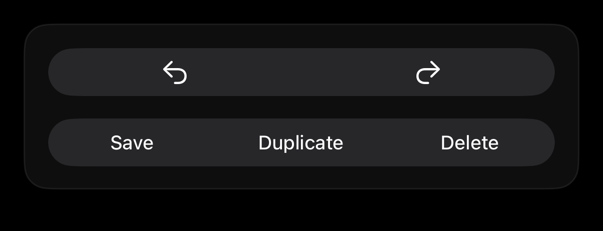
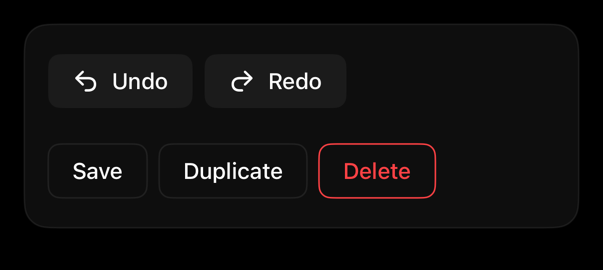
Lay the button group out as a styled HStack
RegistryButtonGroupStyle 0.3.0 renders the ControlGroup's content in an
HStack on the theme's compact spacing with the registry button style, as
one accessibility container, because ControlGroup(configuration) draws
the system capsule and ignores the style, the variant, and the destructive
role. Recapture the item, update the Showcase copy and the generated
outputs, and point the contract test at the new seam. Pin the workflow
actions to the versions Dependabot proposed, wait for the catalog list's
first row before the UI suite scrolls to an item, and record the owner's
decisions on iOS 26, the old commits, and dependency bumps.

By specifier.

diff --git a/Examples/Showcase/SwiftUIRegistryShowcaseUITests/SwiftUIRegistryShowcaseUITests.swift b/Examples/Showcase/SwiftUIRegistryShowcaseUITests/SwiftUIRegistryShowcaseUITests.swift
@@ -33,13 +33,20 @@ final class SwiftUIRegistryShowcaseUITests: XCTestCase {
         let tabButton = app.tabBars.buttons[tab]
         XCTAssertTrue(tabButton.waitForExistence(timeout: 5), "The \(tab) tab must exist.")
         tabButton.tap()
+        // On a fresh launch the list can still be rendering; swiping before its first row
+        // exists scrolls past the target and the lookup fails (seen twice on 2026-09-05 and
+        // 2026-09-06 under machine load).
+        let firstRow = app.descendants(matching: .any)
+            .matching(NSPredicate(format: "identifier BEGINSWITH %@", "catalog.item."))
+            .firstMatch
+        XCTAssertTrue(firstRow.waitForExistence(timeout: 5), "The \(tab) list must render before it is searched.")
         let row = app.descendants(matching: .any)
             .matching(identifier: "catalog.item.\(name)")
             .firstMatch
         for _ in 0..<10 where !row.exists {
             app.swipeUp()
         }
-        XCTAssertTrue(row.waitForExistence(timeout: 3), "The \(name) row must be listed under \(tab).")
+        XCTAssertTrue(row.waitForExistence(timeout: 5), "The \(name) row must be listed under \(tab).")
         row.tap()
         XCTAssertTrue(
             app.navigationBars[name].waitForExistence(timeout: 5),
@@ -566,7 +573,7 @@ final class SwiftUIRegistryShowcaseUITests: XCTestCase {
 
         // Clearing restores the sections; selecting runs caller code.
         app.buttons["Clear search"].tap()
-        XCTAssertTrue(transfer.waitForExistence(timeout: 2))
+        XCTAssertTrue(transfer.waitForExistence(timeout: 5))
         transfer.tap()
         XCTAssertTrue(app.staticTexts["Ran transfer."].waitForExistence(timeout: 2))
 

diff --git a/Examples/Showcase/SwiftUIRegistryShowcasePackage/Sources/SwiftUIRegistryShowcaseFeature/Installed/RegistryButtonGroupStyle.swift b/Examples/Showcase/SwiftUIRegistryShowcasePackage/Sources/SwiftUIRegistryShowcaseFeature/Installed/RegistryButtonGroupStyle.swift
@@ -1,7 +1,12 @@
 import SwiftUI
 
-/// Applies one registry button treatment to every control in a native `ControlGroup`.
+/// Lays out every native button of a `ControlGroup` side by side with one registry button
+/// treatment. Measured on iOS 27, `ControlGroup(configuration)` draws the system capsule and
+/// ignores the button style, so the style owns the row and the buttons keep their variant,
+/// destructive role, labels, and control size.
 public struct RegistryButtonGroupStyle: ControlGroupStyle {
+    @Environment(\.registryTheme) private var theme
+
     private let variant: RegistryButtonStyle.Variant
 
     public init(_ variant: RegistryButtonStyle.Variant = .secondary) {
@@ -9,8 +14,11 @@ public struct RegistryButtonGroupStyle: ControlGroupStyle {
     }
 
     public func makeBody(configuration: Configuration) -> some View {
-        ControlGroup(configuration)
-            .buttonStyle(RegistryButtonStyle(variant))
+        HStack(spacing: theme.metrics.compactSpacing) {
+            configuration.content
+                .buttonStyle(RegistryButtonStyle(variant))
+        }
+        .accessibilityElement(children: .contain)
     }
 }
 

diff --git a/Registry/sources/components/RegistryButtonGroupStyle.swift b/Registry/sources/components/RegistryButtonGroupStyle.swift
@@ -1,7 +1,12 @@
 import SwiftUI
 
-/// Applies one registry button treatment to every control in a native `ControlGroup`.
+/// Lays out every native button of a `ControlGroup` side by side with one registry button
+/// treatment. Measured on iOS 27, `ControlGroup(configuration)` draws the system capsule and
+/// ignores the button style, so the style owns the row and the buttons keep their variant,
+/// destructive role, labels, and control size.
 public struct RegistryButtonGroupStyle: ControlGroupStyle {
+    @Environment(\.registryTheme) private var theme
+
     private let variant: RegistryButtonStyle.Variant
 
     public init(_ variant: RegistryButtonStyle.Variant = .secondary) {
@@ -9,8 +14,11 @@ public struct RegistryButtonGroupStyle: ControlGroupStyle {
     }
 
     public func makeBody(configuration: Configuration) -> some View {
-        ControlGroup(configuration)
-            .buttonStyle(RegistryButtonStyle(variant))
+        HStack(spacing: theme.metrics.compactSpacing) {
+            configuration.content
+                .buttonStyle(RegistryButtonStyle(variant))
+        }
+        .accessibilityElement(children: .contain)
     }
 }
 

diff --git a/Examples/Showcase/SwiftUIRegistryShowcasePackage/Sources/SwiftUIRegistryShowcaseFeature/RegistryCatalogManifest.swift b/Examples/Showcase/SwiftUIRegistryShowcasePackage/Sources/SwiftUIRegistryShowcaseFeature/RegistryCatalogManifest.swift
@@ -109,8 +109,8 @@ enum RegistryCatalogManifest {
         CatalogEntry(
             name: "button-group",
             kind: "component",
-            version: "0.2.1",
-            description: "Styles every native button in a ControlGroup with one registry button variant while retaining the system group container.",
+            version: "0.3.0",
+            description: "Lays out every native button in a ControlGroup side by side with one registry button variant, keeping the caller's Button controls, roles, and labels.",
             usage: "// Content layer only. In toolbars, tab bars, or floating chrome the system supplies Liquid Glass; use .buttonStyle(.glass) or .buttonStyle(.glassProminent) there instead of .registry styles.\n\nControlGroup {\n    Button(\"Undo\", systemImage: \"arrow.uturn.backward\") {}\n    Button(\"Redo\", systemImage: \"arrow.uturn.forward\") {}\n}\n.controlGroupStyle(.registryButtons)",
             dependencies: ["button"],
             tags: ["button", "control-group", "action", "style"]

diff --git a/Tests/RegistryKitTests/RegistryContractTests.swift b/Tests/RegistryKitTests/RegistryContractTests.swift
@@ -47,7 +47,8 @@ extension Commands {
           "button-group", ["button", "button-group"], "RegistryButtonGroupStyle.swift",
           [
             "public struct RegistryButtonGroupStyle: ControlGroupStyle",
-            "ControlGroup(configuration)",
+            "HStack(spacing: theme.metrics.compactSpacing)", "configuration.content",
+            "RegistryButtonStyle(variant)",
           ], "struct RegistryButtonGroup: View"
         ),
         (

diff --git a/docs/component-roadmap.md b/docs/component-roadmap.md
@@ -39,7 +39,7 @@ Standing debt already on record. A done-claim that touches one of these areas na
 - Reduce Motion, VoiceOver announcement timing, and the accordion's rotation are verified structurally and on the simulator, not on a device
 - Two visual references are stale after the tuning panel left its tab (2026-09-05): `auth-light` (2.67 percent; it was already stale after the audit) and `nutrition-light` (1.53 percent) because their blocks reach the accent strip that now sits above a three-tab bar; the other four references absorb the strip within tolerance (`docs/visual-testing.md`, GOLDEN-CHANGE pending). This supersedes the three stale references from the audit. Replacing them from the reviewed attachments is the owner's action (`HANDOFF.md` names the commands); the other 17 UI tests and the 7 Showcase unit tests pass
 - `inspector(isPresented:)` is not used for the iPad column: measured on iOS 27, attaching it to a tab's navigation stack stopped the auth form's Return key from moving focus even while nothing was presented (`CatalogRoot.swift`), so the column is a plain sibling in an `HStack`; revisit when a later runtime behaves
-- `button-group` decided 2026-09-06: the owner chose the styled `HStack`. `RegistryButtonGroupStyle` 0.3.0 lays `configuration.content` out in an `HStack` on the theme's compact spacing with the registry button style, as one accessibility container; the capture now shows the variant and the destructive role
+- `button-group` decided 2026-09-06: the owner chose the styled `HStack`. `RegistryButtonGroupStyle` 0.3.0 lays `configuration.content` out in an `HStack` on the theme's compact spacing with the registry button style, as one accessibility container; the capture now shows the variant and the destructive role. Verification: validate, the Showcase copy updated through `--update`, the three generators, 56 RegistryKit tests, the format check, the recapture, and the full UI suite on the pinned iPhone 17 (19 tests: 16 passed, the two known stale references, and one timing miss in the command-search test that a hardened row lookup, waiting for the list's first row before scrolling, fixed; that test and the finance reference passed on rerun)
 - Disabled plain-Button controls dim twice (checkbox: the system dim plus `disabledOpacity`, measured from the capture) while the accordion applies no token dim; which dim wins is an owner decision
 
 ## Backlog (2026-09-05)

diff --git a/docs/catalog/preview.md b/docs/catalog/preview.md
@@ -43,7 +43,7 @@ PreviewWall()
 - Kind: block
 - Version: 0.3.0
 - Platforms: iOS 26.0+
-- Installs in order: [card](card.md) 0.2.0, [avatar](avatar.md) 0.2.0, [separator](separator.md) 0.2.0, [badge](badge.md) 0.3.1, [item](item.md) 0.2.0, [button](button.md) 0.5.0, [alert](alert.md) 0.2.0, [chart](chart.md) 0.1.1, [empty](empty.md) 0.1.0, [input-group](input-group.md) 0.2.0, [combobox](combobox.md) 0.1.0, [input](input.md) 0.5.0, [field](field.md) 0.1.0, [spinner](spinner.md) 0.2.0, [checkbox](checkbox.md) 0.3.0, [textarea](textarea.md) 0.4.0, [table](table.md) 0.1.0, [kbd](kbd.md) 0.1.1, [progress](progress.md) 0.2.0, [select](select.md) 0.2.0, [skeleton](skeleton.md) 0.2.0, [button-group](button-group.md) 0.2.1, [preview](preview.md) 0.3.0
+- Installs in order: [card](card.md) 0.2.0, [avatar](avatar.md) 0.2.0, [separator](separator.md) 0.2.0, [badge](badge.md) 0.3.1, [item](item.md) 0.2.0, [button](button.md) 0.5.0, [alert](alert.md) 0.2.0, [chart](chart.md) 0.1.1, [empty](empty.md) 0.1.0, [input-group](input-group.md) 0.2.0, [combobox](combobox.md) 0.1.0, [input](input.md) 0.5.0, [field](field.md) 0.1.0, [spinner](spinner.md) 0.2.0, [checkbox](checkbox.md) 0.3.0, [textarea](textarea.md) 0.4.0, [table](table.md) 0.1.0, [kbd](kbd.md) 0.1.1, [progress](progress.md) 0.2.0, [select](select.md) 0.2.0, [skeleton](skeleton.md) 0.2.0, [button-group](button-group.md) 0.3.0, [preview](preview.md) 0.3.0
 - Accessibility contract:
   - All 33 cards render in one ordered wall: an adaptive grid on a regular width and a plain, non-lazy VStack on a compact width, so every card exists in the hierarchy even off screen and the capture-route accessibility audit reaches all of them.
   - Every interactive control carries an accessibility label and every decorative SF Symbol is hidden, so the capture-route audit finds no unlabeled button, image, switch, text field, or slider on any card.

diff --git a/docs/catalog/index.md b/docs/catalog/index.md
@@ -33,7 +33,7 @@ One installable style, modifier, or view each
 - [badge](badge.md): Applies primary, secondary, outline, positive, and destructive badge treatments to native Text and Label content.
 - [breadcrumb](breadcrumb.md): A horizontal navigation trail of links with chevron separators and a current page, collapsing middle crumbs into an overflow menu when they do not fit; a component because iOS has no native breadcrumb control.
 - [button](button.md): Styles native SwiftUI buttons with shadcn-inspired semantic variants while preserving roles and environment sizing.
-- [button-group](button-group.md): Styles every native button in a ControlGroup with one registry button variant while retaining the system group container.
+- [button-group](button-group.md): Lays out every native button in a ControlGroup side by side with one registry button variant, keeping the caller's Button controls, roles, and labels.
 - [card](card.md): Styles a native GroupBox as a semantic bordered surface with adaptive label and content spacing.
 - [chart](chart.md): Styles a native Swift Charts Chart to the theme: a series palette derived from the accent on the foreground style scale, theme-colored grid lines, footnote axis labels, and a bottom legend, across bar, line, area, and pie marks.
 - [checkbox](checkbox.md): Styles a native Toggle as a checkbox while preserving its binding, label, enabled state, and accessibility representation.

diff --git a/docs/catalog/button-group.md b/docs/catalog/button-group.md
@@ -2,7 +2,7 @@
 
 # button-group
 
-Styles every native button in a ControlGroup with one registry button variant while retaining the system group container.
+Lays out every native button in a ControlGroup side by side with one registry button variant, keeping the caller's Button controls, roles, and labels.
 
 ![button-group preview](../images/items/button-group-light.png)
 
@@ -47,11 +47,11 @@ ControlGroup {
 ## Details
 
 - Kind: component
-- Version: 0.2.1
+- Version: 0.3.0
 - Platforms: iOS 26.0+
-- Installs in order: [button](button.md) 0.5.0, [button-group](button-group.md) 0.2.1
+- Installs in order: [button](button.md) 0.5.0, [button-group](button-group.md) 0.3.0
 - Accessibility contract:
-  - Retains native Button controls and the ControlGroup container supplied by the caller.
+  - Retains the caller's native Button controls and exposes the row as one accessibility container.
   - Keeps each button's visible or derived accessibility label and role.
   - Inherits layout direction, control size, enabled state, and Dynamic Type behavior.
   - Requires callers to provide labels for icon-only buttons through native Button initializers.
